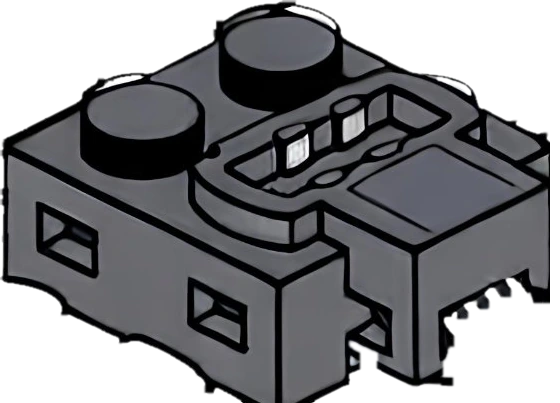
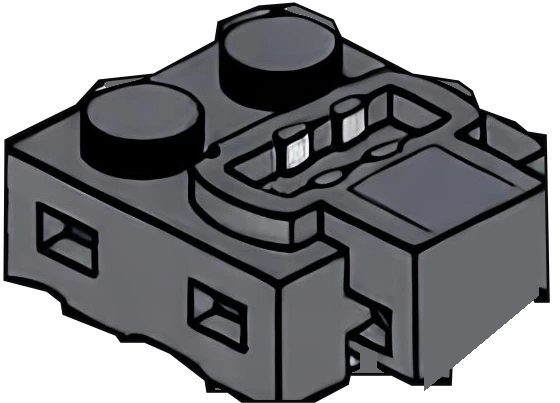
Wiring: connector edges straightened (no burrs or wavy sides); front cables (6.0 A/C/E) come out of the connector slot at 20 degrees, 4.0 A/B cables out of their slot at 30 degrees counter-clockwise
Claude-Session: https://claude.ai/code/session_01RxQ4QJZ9M2VY5cz1gsySH8

diff --git a/app/src/main/assets/app.js b/app/src/main/assets/app.js
@@ -6407,7 +6407,7 @@ var HUBS={
 // his motor drawing (4.0 A/B). Each drawing is laid over the hub picture with one straight transform found from the hub
 // itself, so the connector sits exactly where he drew it; the other ports get the same picture moved by the port spacing.
 // 6.0: b = B D F (cable to the back), f = A C E (to the front); 4.0: ab = A B (mouth to the A/B end), cd = C D (to the C/D end)
-var PLUGS={b:{W:557,H:437,ex:[20,95]},f:{W:560,H:403,ex:[470,250]},cd:{W:234,H:187,ex:[200,60]},ab:{W:231,H:158,ex:[40,100]}};
+var PLUGS={b:{W:557,H:437,ex:[20,95]},f:{W:560,H:403,ex:[470,305]},cd:{W:234,H:187,ex:[200,60]},ab:{W:231,H:158,ex:[30,104]}};
 // where each port's connector picture sits on the hub picture (svg matrix a b c d e f, hub picture px)
 var PLUGM={'6':{A:[0.6681,0.0526,-0.1709,0.8052,394.2215,282.8829],B:[0.6635,0.0568,-0.1727,0.8043,244.7578,133.4669],C:[0.6681,0.0526,-0.1709,0.8052,598.9058,186.1291],D:[0.6635,0.0568,-0.1727,0.8043,449.4421,36.7131],E:[0.6681,0.0526,-0.1709,0.8052,803.5901,89.3752],F:[0.6635,0.0568,-0.1727,0.8043,654.1264,-60.0407]},'4':{A:[1.5113,0.0000,0.0000,1.5113,251.5492,202.7933],B:[1.5113,0.0000,0.0000,1.5113,82.7953,120.8508],C:[1.4500,0.0012,-0.0012,1.4500,417.0759,-65.2843],D:[1.4500,0.0012,-0.0012,1.4500,585.8298,16.6582]}};
 var HKIND='',HIMG='',PORTS={};
@@ -6451,7 +6451,7 @@ function plugSvg(k){var g=plg(k),P=PLUGS[PORTS[k][4]],cn=[LP(g,-PLW,-PLI),LP(g,P
 function portHit(k){var q=PORTS[k],c=W(q[0],q[1],HZ);return '<circle class="sock" data-p="'+k+'" cx="'+c[0].toFixed(1)+'" cy="'+c[1].toFixed(1)+'" r="44" fill="transparent" style="cursor:pointer"/>'}
 // cables that leave a plug up the screen pass behind the plugs, the others in front
 var CABB=[],CABF=[];
-function cabSides(){CABB=[];CABF=[];Object.keys(PORTS).forEach(function(k){if(!ST[k]||ST[k].na) return;(plugExit(k).oy<0?CABB:CABF).push(k)})}
+function cabSides(){CABB=[];CABF=[];Object.keys(PORTS).forEach(function(k){if(!ST[k]||ST[k].na) return;(plugExit(k).oy<0&&PORTS[k][4]!=='ab'?CABB:CABF).push(k)})}
 var CW=SS*.62;   // cable width taken from the diagram: four cores fill the plug's cable tab
 
 function roundRun(P,r){var out=[P[0]];
@@ -6467,7 +6467,7 @@ function roundRun(P,r){var out=[P[0]];
 function segHit(a,b,r){var x0=r[0],y0=r[1],x1=r[2],y1=r[3],t0=0,t1=1,dx=b[0]-a[0],dy=b[1]-a[1],P=[-dx,dx,-dy,dy],Q=[a[0]-x0,x1-a[0],a[1]-y0,y1-a[1]];
  for(var i=0;i<4;i++){if(P[i]===0){if(Q[i]<0) return false}else{var t=Q[i]/P[i];if(P[i]<0){if(t>t1) return false;if(t>t0) t0=t}else{if(t<t0) return false;if(t<t1) t1=t}}}return t1-t0>.02}
 function routeOf(k,off){var t=ST[k].t,f=fit(t,k),ex=EXIT[t],e=plugExit(k),A=[e.x,e.y],B=[f.x+ex[0]*f.w,f.y+ex[1]*f.h],G=SS*.5;
- var p1=[A[0]+e.ox*SS*.75,A[1]+e.oy*SS*.75],Bq=[B[0]+SS*.7,B[1]],H=HUBR,back=!!e.top;
+ var pk=PORTS[k]&&PORTS[k][4],lead=pk==='ab'?1.2:e.top?.75:1.7,rt=pk==='ab'?-.5236:e.top?0:.3491,ux=e.ox*Math.cos(rt)-e.oy*Math.sin(rt),uy=e.ox*Math.sin(rt)+e.oy*Math.cos(rt),p1=[A[0]+ux*SS*lead,A[1]+uy*SS*lead],Bq=[B[0]+SS*.7,B[1]],H=HUBR,back=!!e.top;
  var L=back?H[1]-SS*.6-off*G:H[3]+SS*.6+off*G,Lo=back?H[3]+SS*.6+off*G:H[1]-SS*.6-off*G,xl=H[0]-SS*.6-off*G,xr=H[2]+SS*.6+off*G;
  var C=[[p1,[p1[0],Bq[1]],Bq],[p1,[p1[0],L],[Bq[0],L],Bq]];
  [xl,xr].forEach(function(xs){C.push([p1,[p1[0],L],[xs,L],[xs,Bq[1]],Bq]);C.push([p1,[p1[0],L],[xs,L],[xs,Lo],[Bq[0],Lo],Bq])});
@@ -6540,10 +6540,10 @@ function render(){hubKind();layout();var s='<defs>'+DEFS.replace(/^<defs>|<\/def
  
  // back row first (cables leave behind the plugs), then the front row with its cables on top
  cabSides();s+='<g id="cabB" pointer-events="none">';CABB.forEach(function(k){cab(k)});s+='</g>';
- // every cable starts inside its connector: drawn before the plugs, it shows coming out of the connector mouth
- s+='<g id="cabF" pointer-events="none">';CABF.forEach(function(k){cab(k)});s+='</g>';
  // plugs back to front, so a nearer plug overlaps the one behind it
  Object.keys(PORTS).filter(function(k){return ST[k]&&!ST[k].na}).sort(function(a,b){return W(PORTS[a][0],PORTS[a][1],HZ)[1]-W(PORTS[b][0],PORTS[b][1],HZ)[1]}).forEach(function(k){s+=ST[k].t?plugSvg(k):portHit(k)});
+ // front cables leave the slot at the bottom of the connector's front face, straight out toward the viewer (as in the user's drawing)
+ s+='<g id="cabF" pointer-events="none">';CABF.forEach(function(k){cab(k)});s+='</g>';
  // scale bar: 5 studs = 4 cm
  s+='<g transform="translate(40 1535)"><path d="M0 0h'+(5*U)+'M0 -8v16M'+(5*U)+' -8v16" stroke="#8a93a0" stroke-width="2"/>';for(var q=1;q<5;q++) s+='<path d="M'+(q*U)+' -4v8" stroke="#8a93a0" stroke-width="1.5"/>';
  s+='<text x="0" y="-16" font-size="24" fill="#8a93a0" font-family="Inter,Arial" font-weight="700">'+tr2('5 studs = 4 cm')+'</text></g>';
